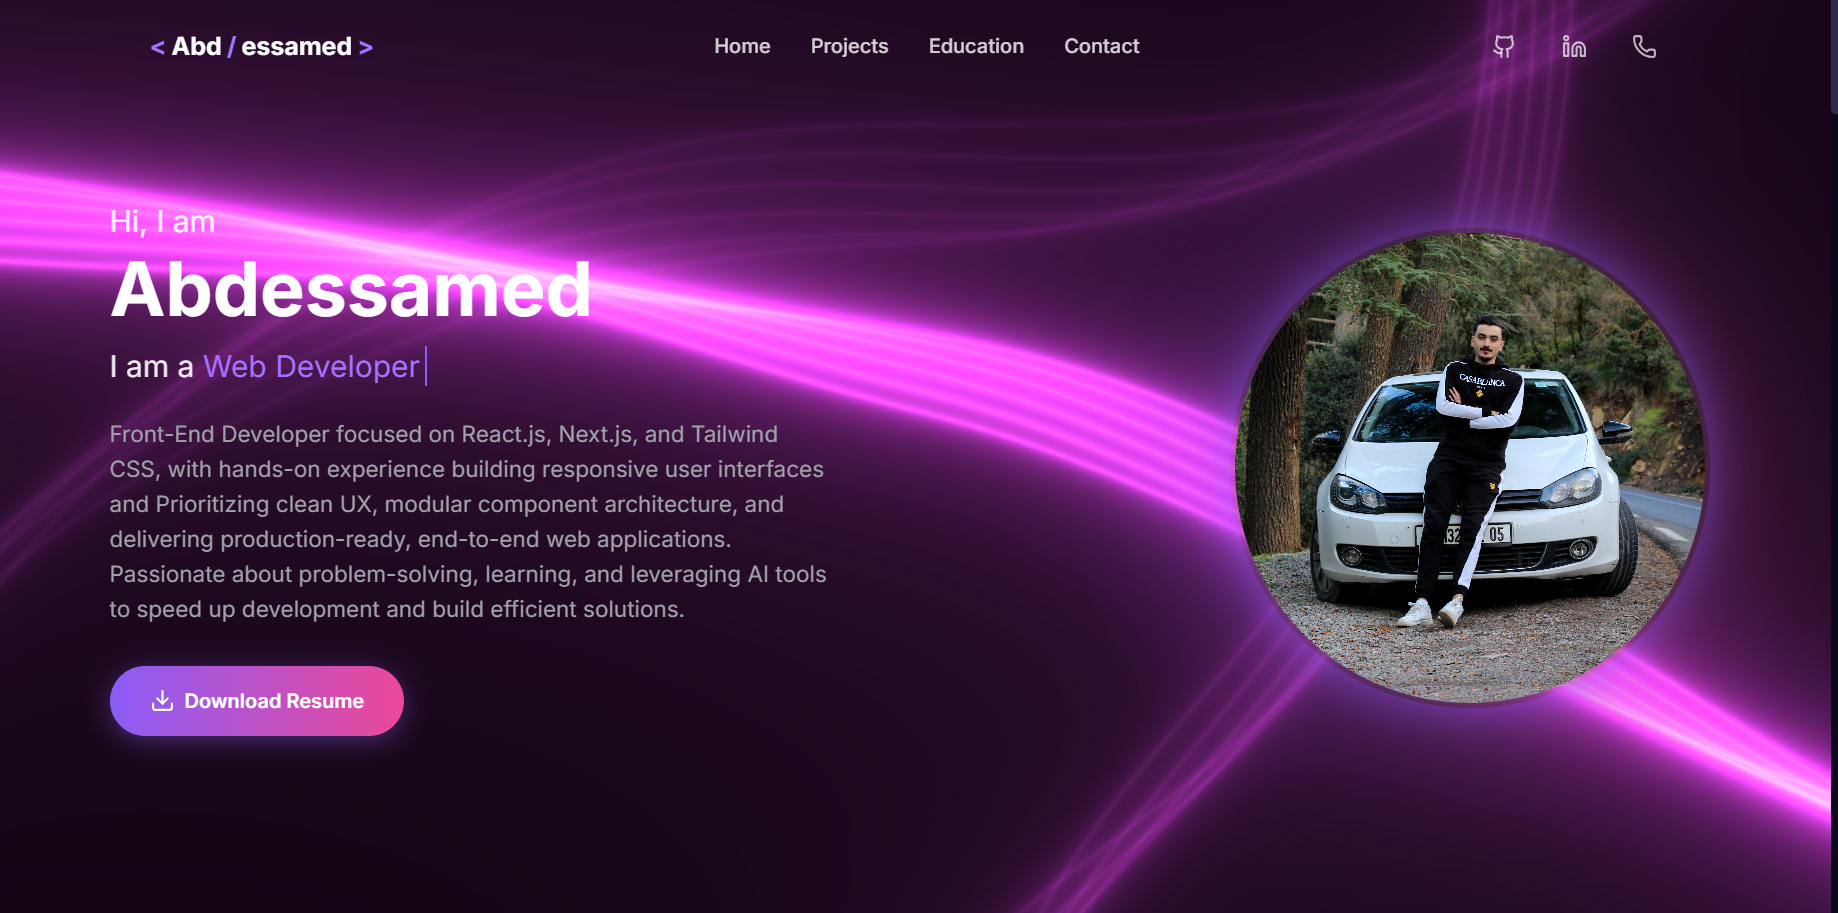
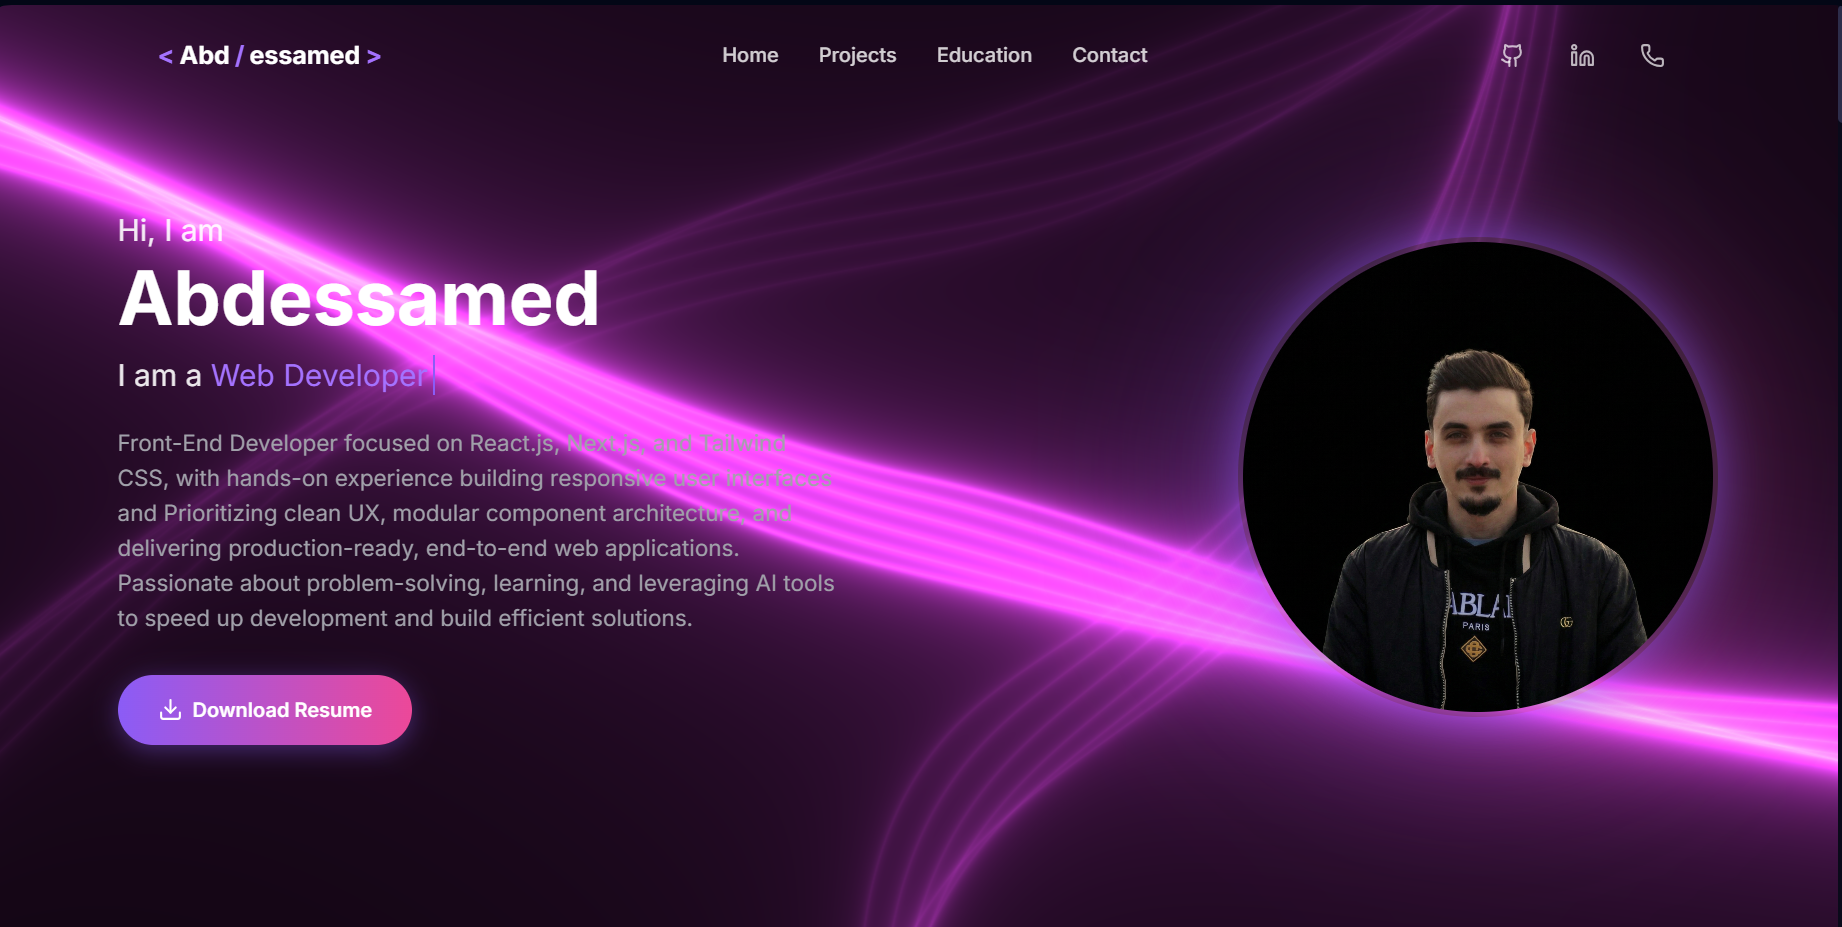
Update portfolio images and replace kp1.jpg with Me.png in components

diff --git a/src/sections/HomeSection.tsx b/src/sections/HomeSection.tsx
@@ -87,13 +87,13 @@ const HomeSection = () => {
                 {/* Profile Image Container */}
                 <div className="relative w-64 h-64 md:w-80 md:h-80 lg:w-96 lg:h-96 rounded-full overflow-hidden border-4 border-white/20 shadow-glow-lg">
                   <img
-                    src="/kp1.jpg"
+                    src="/Me.png"
                     alt="Abdessamed"
                     width={384}
                     height={384}
                     loading="eager"
                     fetchPriority="high"
-                    className="w-full h-full object-cover"
+                    className="w-full h-full object-cover scale-110"
                   />
                 </div>
               </div>

diff --git a/src/pages/AllProjectsPage.tsx b/src/pages/AllProjectsPage.tsx
@@ -79,7 +79,7 @@ const AllProjectsPage = () => {
                                     rel="noopener noreferrer"
                                     className="w-full gradient-button flex items-center justify-center gap-2 py-4 disabled:opacity-70 disabled:cursor-not-allowed"
                                 >
-                                    View Live
+                                    Live Demo
                                     <ExternalLink className="w-5 h-5" />
                                 </a>
                             </div>
